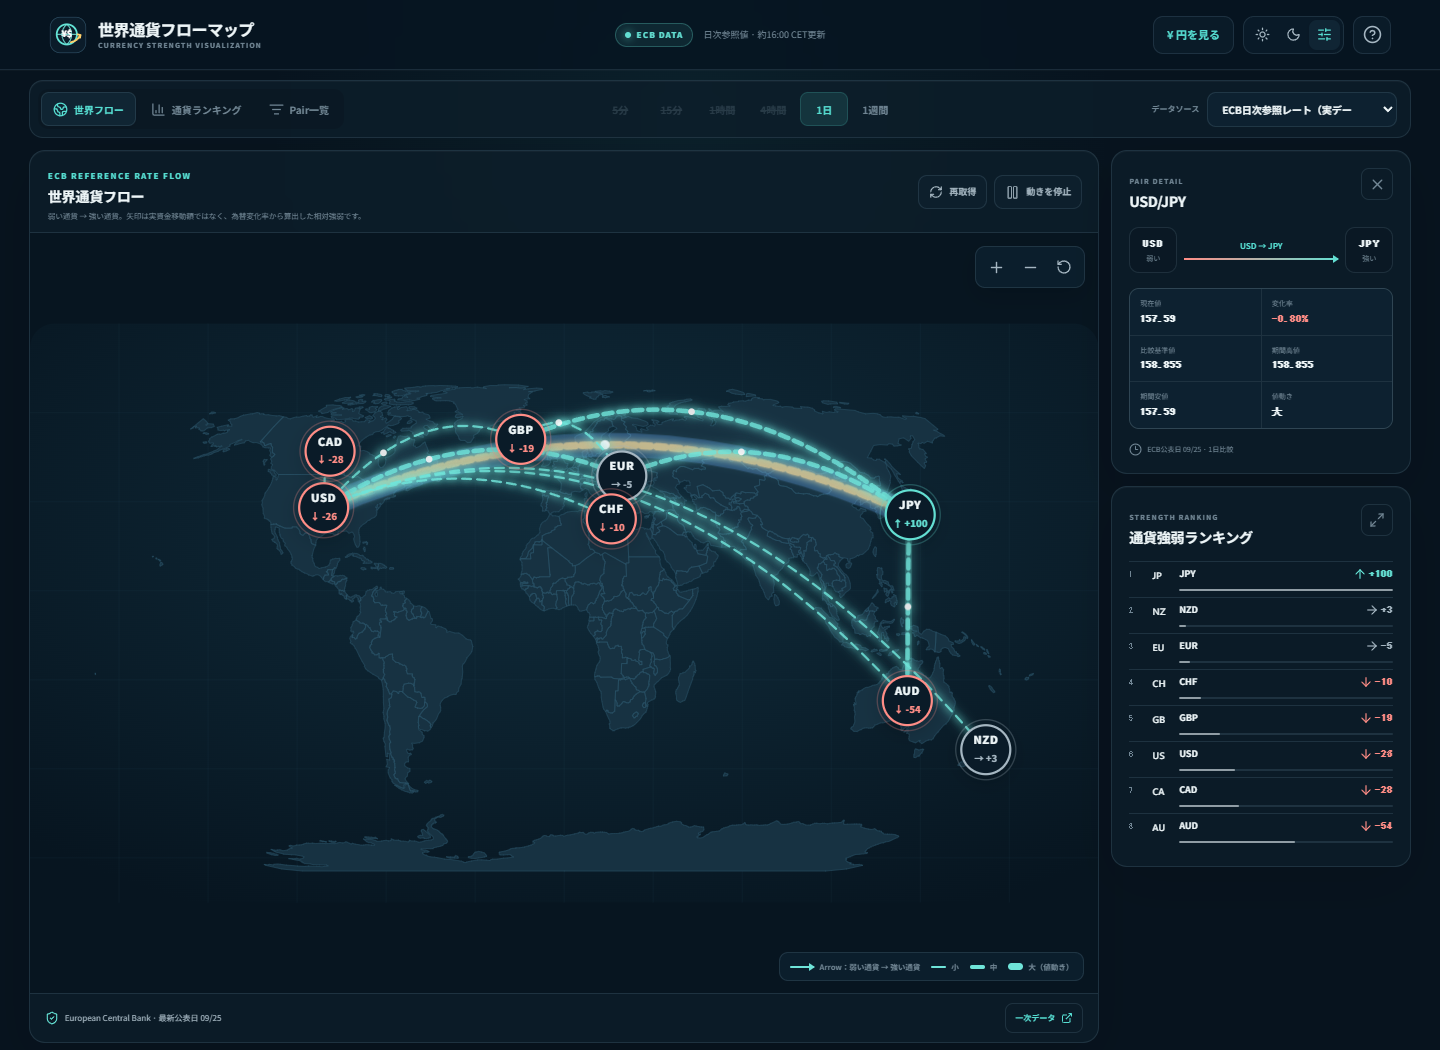
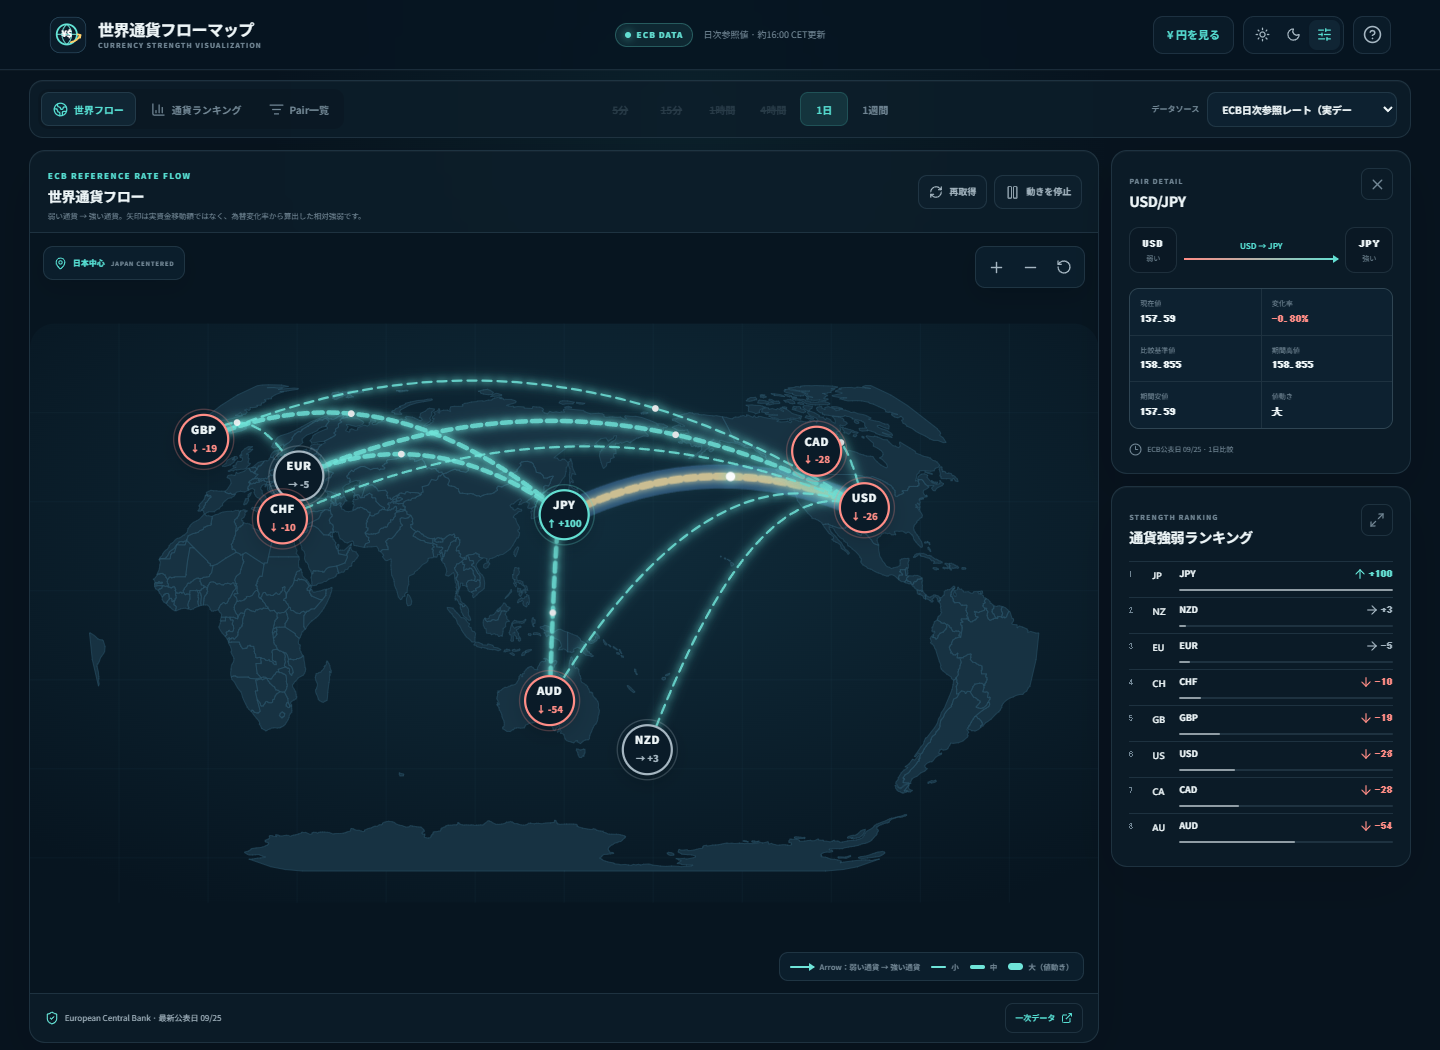
feat: center world map on Japan

diff --git a/src/components/world-map.tsx b/src/components/world-map.tsx
@@ -1,13 +1,14 @@
 "use client";
 
-import { geoNaturalEarth1, geoPath } from "d3-geo";
-import { Minus, Move, Plus, RotateCcw } from "lucide-react";
+import { geoPath } from "d3-geo";
+import { MapPin, Minus, Move, Plus, RotateCcw } from "lucide-react";
 import { useMemo, useRef, useState, type KeyboardEvent, type PointerEvent, type WheelEvent } from "react";
 import { feature } from "topojson-client";
 import type { GeometryCollection, Topology } from "topojson-specification";
 import countriesTopology from "world-atlas/countries-110m.json";
 
 import { CURRENCY_META } from "@/lib/market-data/config";
+import { createJapanCenteredProjection } from "@/lib/map-projection";
 import type { CurrencyCode, CurrencyFlow, CurrencyStrength } from "@/lib/market-data/types";
 import styles from "./currency-flow-app.module.css";
 
@@ -40,7 +41,7 @@ export function WorldMap({
   const [mobileMapActive, setMobileMapActive] = useState(false);
   const dragRef = useRef<{ pointerId: number; startX: number; startY: number; originX: number; originY: number } | null>(null);
 
-  const projection = useMemo(() => geoNaturalEarth1().scale(156).translate([WIDTH / 2, HEIGHT / 2 + 10]), []);
+  const projection = useMemo(() => createJapanCenteredProjection(WIDTH, HEIGHT), []);
   const countries = useMemo(() => {
     const topology = countriesTopology as unknown as Topology<{ countries: GeometryCollection }>;
     return feature(topology, topology.objects.countries);
@@ -103,6 +104,7 @@ export function WorldMap({
 
   return (
     <div className={`${styles.mapViewport} ${mobileMapActive ? styles.mapInteractionActive : ""}`}>
+      <div className={styles.mapCenterBadge}><MapPin size={13} /><span>日本中心</span><small>JAPAN CENTERED</small></div>
       <div className={styles.mapToolbar} aria-label="地図操作">
         <button type="button" onClick={() => zoom(transform.scale + 0.3)} aria-label="拡大"><Plus size={17} /></button>
         <button type="button" onClick={() => zoom(transform.scale - 0.3)} aria-label="縮小"><Minus size={17} /></button>
@@ -122,7 +124,7 @@ export function WorldMap({
         className={styles.mapSvg}
         viewBox={`0 0 ${WIDTH} ${HEIGHT}`}
         role="img"
-        aria-label="主要8通貨の相対的な強弱フローを示す世界地図"
+        aria-label="日本を中心に主要8通貨の相対的な強弱フローを示す世界地図"
         onPointerDown={onPointerDown}
         onPointerMove={onPointerMove}
         onPointerUp={endDrag}

diff --git a/src/components/currency-flow-app.module.css b/src/components/currency-flow-app.module.css
@@ -91,6 +91,8 @@
 .mapViewport { position: relative; min-height: clamp(510px, calc(100dvh - 235px), 760px); overflow: hidden; background: var(--ocean); touch-action: pan-y; }
 .mapInteractionActive { touch-action: none; }
 .mapToolbar { position: absolute; top: 13px; right: 13px; z-index: 8; display: flex; padding: 3px; border: 1px solid var(--line); border-radius: 10px; background: color-mix(in srgb, var(--surface-solid) 80%, transparent); box-shadow: 0 8px 22px rgba(0,0,0,.12); backdrop-filter: blur(15px); }
+.mapCenterBadge { position: absolute; top: 13px; left: 13px; z-index: 8; display: inline-flex; min-height: 34px; align-items: center; gap: 6px; padding: 0 10px; border: 1px solid var(--line); border-radius: 10px; background: color-mix(in srgb, var(--surface-solid) 80%, transparent); box-shadow: 0 8px 22px rgba(0,0,0,.1); color: var(--accent); font-size: 8px; font-weight: 800; backdrop-filter: blur(15px); }
+.mapCenterBadge small { color: var(--muted); font-size: 6px; font-weight: 800; letter-spacing: .12em; }
 .mapToolbar button { display: grid; width: 34px; height: 34px; place-items: center; border: 0; border-radius: 7px; background: transparent; color: var(--text-soft); cursor: pointer; }
 .mapToolbar button:hover { background: color-mix(in srgb, var(--accent) 10%, transparent); color: var(--accent); }
 .mobileMapToggle { display: none; }
@@ -272,6 +274,8 @@
   .mapViewport, .mapSvg { min-height: 390px; }
   .mapToolbar { top: 50px; right: 9px; flex-direction: column; }
   .mobileMapToggle { position: absolute; top: 9px; right: 9px; z-index: 9; display: inline-flex; min-height: 35px; align-items: center; gap: 5px; padding: 0 10px; border: 1px solid var(--line); border-radius: 9px; background: color-mix(in srgb, var(--surface-solid) 88%, transparent); color: var(--text-soft); font-size: 8px; font-weight: 700; }
+  .mapCenterBadge { top: 9px; left: 9px; min-height: 35px; }
+  .mapCenterBadge small { display: none; }
   .mobileMapToggle[aria-pressed="true"] { color: var(--accent); border-color: color-mix(in srgb, var(--accent) 30%, transparent); }
   .mapLegend { right: 9px; bottom: 9px; left: 9px; justify-content: center; gap: 8px; overflow-x: auto; }
   .mapLegend span:first-child { display: none; }

diff --git a/src/lib/map-projection.test.ts b/src/lib/map-projection.test.ts
@@ -1,0 +1,23 @@
+import { describe, expect, it } from "vitest";
+
+import { CURRENCY_META } from "./market-data/config";
+import { createJapanCenteredProjection } from "./map-projection";
+
+describe("Japan-centered world map projection", () => {
+  const width = 960;
+  const projection = createJapanCenteredProjection(width, 520);
+
+  it("日本を世界地図の中央付近へ配置する", () => {
+    const japan = projection(CURRENCY_META.JPY.coordinates);
+    expect(japan).not.toBeNull();
+    expect(Math.abs(japan![0] - width / 2)).toBeLessThan(15);
+  });
+
+  it("日本から見て欧州を左、北米を右へ配置する", () => {
+    const japanX = projection(CURRENCY_META.JPY.coordinates)![0];
+    const europeX = projection(CURRENCY_META.EUR.coordinates)![0];
+    const usaX = projection(CURRENCY_META.USD.coordinates)![0];
+    expect(europeX).toBeLessThan(japanX);
+    expect(usaX).toBeGreaterThan(japanX);
+  });
+});

diff --git a/src/lib/map-projection.ts b/src/lib/map-projection.ts
@@ -1,0 +1,10 @@
+import { geoNaturalEarth1 } from "d3-geo";
+
+export const JAPAN_CENTER_LONGITUDE = 139.7;
+
+export function createJapanCenteredProjection(width: number, height: number) {
+  return geoNaturalEarth1()
+    .rotate([-JAPAN_CENTER_LONGITUDE, 0])
+    .scale(156)
+    .translate([width / 2, height / 2 + 10]);
+}

diff --git a/README.md b/README.md
@@ -15,7 +15,7 @@
 
 ## Concept
 
-- 実際の国境を使った世界地図を主役にする
+- 実際の国境を使い、日本を中央に置いた世界地図を主役にする
 - 変化率の符号から、必ず「弱い通貨 → 強い通貨」を決定する
 - Arrowの太さと速度を値動きの大きさに連動させる
 - 色だけに依存せず、通貨コード・数値・`↑ / ↓`を併記する
@@ -109,6 +109,7 @@ Filter / Pair Detail / Ranking / Historical Playback
 
 - `world-atlas`のNatural Earth由来110m TopoJSONを`topojson-client`で変換
 - `d3-geo`のNatural Earth projectionで実世界の国境を描画
+- 日本の経度（139.7°E）を中央にした投影で、欧州を左、北米を右に配置
 - 8 Currency Node、最大11 Flow、最大8 animated particleに制限
 - Zoom、Pan、Reset、Arrow選択、Currency Filter、JPY Focus
 - Tab非表示、ユーザーPause、`prefers-reduced-motion`でAnimationを停止
@@ -168,7 +169,7 @@ npm run build
 npm run screenshots -- https://world-currency-flow-map.vercel.app
 ```
 
-VitestではUSD/JPYの正負方向、ECB CSV / cross-rate、Percentage Change、Strength、Arrow Threshold、Ranking、6 Timeframe、Currency Filter、3 Demo Scenario、Stale、Market Closed、API Error fallback、Reduced Motionを検証します。PlaywrightではProductionの5画面を操作・撮影し、Desktop / Tablet / Landscape Mobile / Portrait Mobileの横溢れ、Mobile map gesture、Console / Page / Request errorを検査します。
+Vitestでは日本中心投影、USD/JPYの正負方向、ECB CSV / cross-rate、Percentage Change、Strength、Arrow Threshold、Ranking、6 Timeframe、Currency Filter、3 Demo Scenario、Stale、Market Closed、API Error fallback、Reduced Motionを検証します。PlaywrightではProductionの5画面を操作・撮影し、Desktop / Tablet / Landscape Mobile / Portrait Mobileの横溢れ、Mobile map gesture、Console / Page / Request errorを検査します。
 
 ## Deployment
 

diff --git a/docs/PORTFOLIO_INTEGRATION_PROMPT.md b/docs/PORTFOLIO_INTEGRATION_PROMPT.md
@@ -26,7 +26,7 @@
 
 説明には、実装を確認できた次の内容だけを含めてください。
 
-- Natural Earth由来の実地理データを使ったInteractive World Map
+- Natural Earth由来の実地理データを使い、日本を中央に配置したInteractive World Map
 - USD / JPY / EUR / GBP / CHF / AUD / CAD / NZDの8 Currency Node
 - 11 Currency Pairの変化率から決定論的に算出するCurrency Strength
 - 「弱い通貨 → 強い通貨」へ流れるAnimated Arrow
@@ -49,7 +49,7 @@
 
 次の順番・説明で5枚を登録してください。
 
-1. `01-world-flow.png` — World Flow — 実世界地図上の8通貨Nodeと複数のCurrency Strength Flow
+1. `01-world-flow.png` — World Flow — 日本中心の実世界地図上に表示した8通貨Nodeと複数のCurrency Strength Flow
 2. `02-usdjpy.png` — USD/JPY Detail — 実データに基づくArrow方向と期間値・強弱通貨の詳細
 3. `03-jpy-focus.png` — JPY Focus — 円関連Arrowのhighlightと通貨別比較
 4. `04-strength-ranking.png` — Strength Ranking — 8通貨の決定論的Ranking

diff --git a/docs/YOUTRUST_POST.md b/docs/YOUTRUST_POST.md
@@ -5,7 +5,7 @@
 
 【どんなアプリ？】
 主要通貨の強弱を、
-世界地図上を流れる矢印として可視化するWebアプリです。
+日本を中央にした世界地図上を流れる矢印として可視化するWebアプリです。
 数字だけでは把握しづらい「今どの通貨が強いのか」を
 直感的に確認できるようにしました。
 
